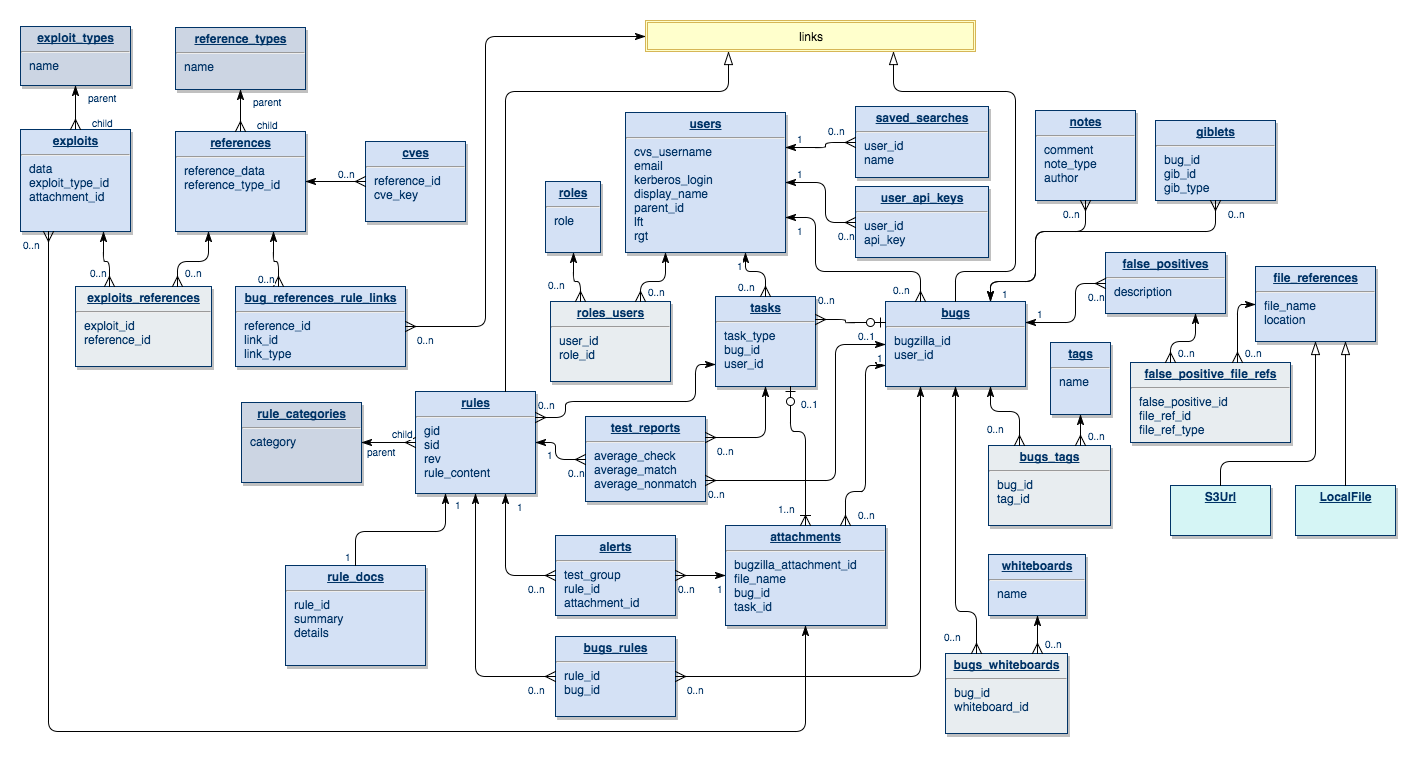
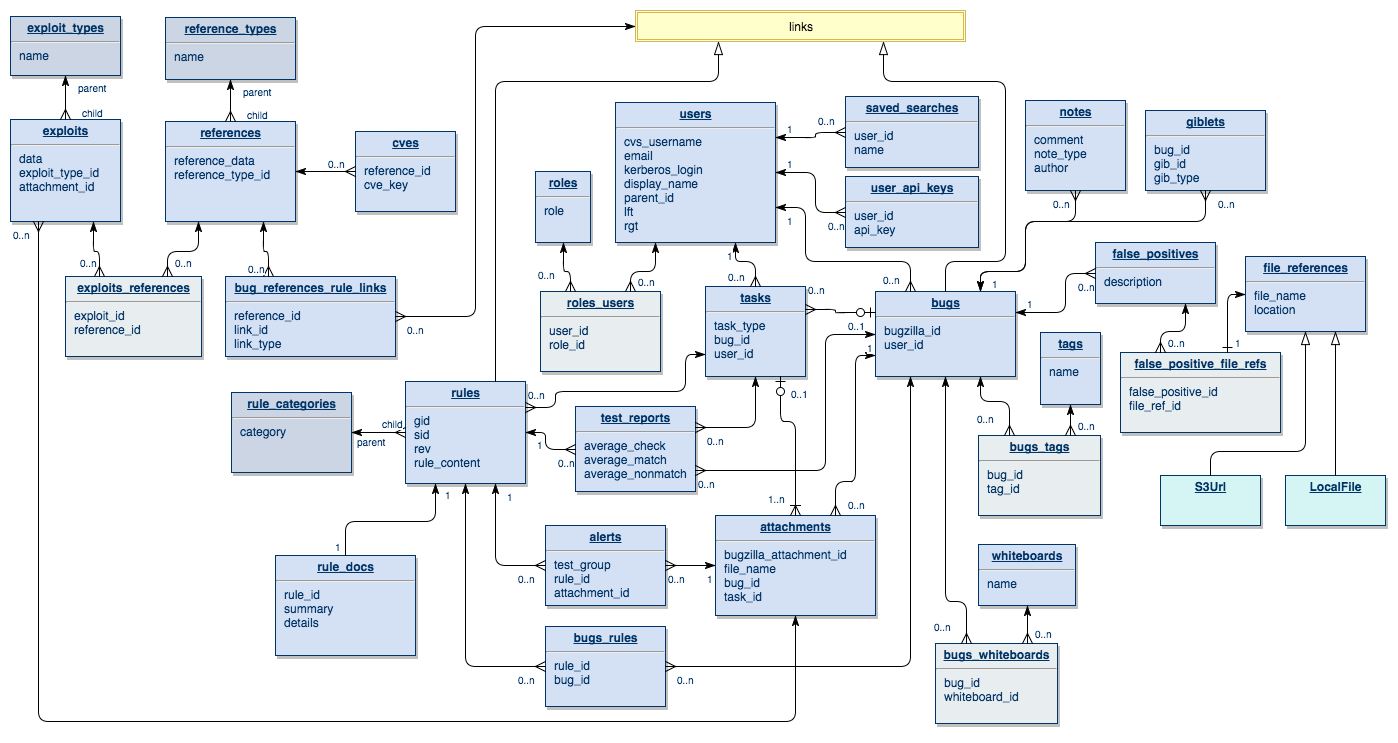
download_s3_urls

diff --git a/app/models/false_positive.rb b/app/models/false_positive.rb
@@ -5,10 +5,30 @@ class FalsePositive < ApplicationRecord
   def sids_array
     sid_strs = sid.gsub(/\s*/, '').split(/[,;]/)
     sid_strs.map do |str|
-      if /([1,3][-:])?(?<sid>\d{1,6})/ =~ str
+      if /([1,3][-:])?(?<sid>\d{3,6})/ =~ str
         sid
       end
     end.compact
+  end
+
+  def download_s3_urls
+    fp_file_refs.each do |fp_file_ref|
+      if fp_file_ref.file_reference.kind_of?(S3Url)
+        # get the current parent
+        s3_url = fp_file_ref.file_reference
+
+        # get a new parent
+        local = s3_url.download
+        unless local.new_record? || local.changed? || !local.valid?
+          # have new parent adopt the child
+          fp_file_ref.update(file_reference: local)
+
+          # now the old parent can go away without orphaning the child.
+          # so, this is a little story
+          s3_url.delete
+        end
+      end
+    end
   end
 
   def component
@@ -53,9 +73,9 @@ PCAP Utility: #{pcap_lib}
   end
 
   # Create a bug in bugzilla, save it with an active record model, and post to the bug create channel
-  # @param [Bugzilla::Bug] bug_factory proxy interface to bugzilla.
-  def create_bug(bug_factory)
-    # @param [Bugzilla::XMLRPC] bugzilla_session proxy interface to bugzilla.
+  # @param [Bugzilla::XMLRPC] bugzilla_session proxy interface to bugzilla.
+  def create_bug(bugzilla_session)
+    bug_factory = Bugzilla::Bug.new(bugzilla_session)
 
     bug_attrs = {
         'product' => 'Research',
@@ -74,23 +94,12 @@ PCAP Utility: #{pcap_lib}
     bug
   end
 
-  # Create a bug in bugzilla, save it with an active record model, and post to the bug create channel
-  # @param [Bugzilla::XMLRPC Token] bugzilla_session proxy interface to bugzilla.
-  def create_bug_action(bugzilla_session)
-    bug_factory = Bugzilla::Bug.new(bugzilla_session)
-
-    bug = create_bug(bug_factory)
-
+  def post_fp_created
     conn = PeakeBridge::FpCreatedEvent.new(addressee: self.source_authority,
                                            source_authority: self.source_authority)
     conn.post(false_positive_id: self.id,
               bug_id: bug&.id,
               source_key: self.source_key)
-    # Rails.logger.debug("PeakeBridge response.body = #{response.body.inspect}")
-
-    bug
-  rescue => except
-    Rails.logger.error(except.message)
   end
 
   def save_attachments_from_params(attachments_attrs:)
@@ -111,5 +120,16 @@ PCAP Utility: #{pcap_lib}
     create(attrs.merge(source_authority: sender)).tap do |false_positive|
       false_positive.save_attachments_from_params(attachments_attrs: attachments_attrs)
     end
+  end
+
+  # Create a bug in bugzilla, save it with an active record model, and post to the bug create channel
+  # @param [Bugzilla::XMLRPC Token] bugzilla_session proxy interface to bugzilla.
+  def create_bug_action(bugzilla_session)
+    download_s3_urls
+    bug = create_bug(bugzilla_session)
+    post_fp_created
+    bug
+  rescue => except
+    Rails.logger.error(except.message)
   end
 end

diff --git a/config/initializers/config_yml.rb b/config/initializers/config_yml.rb
@@ -6,12 +6,6 @@ raise "config.yml missing #{Rails.env} section" unless env_config
 raise "config.yml missing amq section" unless env_config['amq']
 Rails.configuration.amq_host            = env_config['amq']['host']
 
-raise "config.yml missing aws section" unless env_config['aws']
-Rails.configuration.aws_access_key_id                       = env_config['aws']['access_key_id']
-Rails.configuration.aws_secret_access_key                   = env_config['aws']['secret_access_key']
-Rails.configuration.aws_region                              = env_config['aws']['region']
-Rails.configuration.aws_buckets                             = env_config['aws']['buckets'] || {}
-Aws.config.update(credentials: Aws::Credentials.new(Rails.configuration.aws_access_key_id, Rails.configuration.aws_secret_access_key))
 
 
 raise "config.yml missing bugzilla section" unless env_config['bugzilla']

diff --git a/app/models/s3_url.rb b/app/models/s3_url.rb
@@ -24,9 +24,6 @@ class S3Url < FileReference
     local = LocalFile.create(attributes.slice(*%w{file_name file_type_name source}))
     relative_path = "#{self.source}/#{local.id}-#{self.file_name}"
     local.copy_local(get_file, relative_path)
-    unless local.new_record? || local.changed? || !local.valid?
-      self.destroy
-    end
     local
   end
 end

diff --git a/app/models/file_reference.rb b/app/models/file_reference.rb
@@ -1,6 +1,6 @@
 class FileReference < ApplicationRecord
-  has_many :false_positive_file_refs, as: :file_ref
-  has_many :false_positives, through: :false_positive_file_refs
+  has_one :fp_file_ref
+  has_one :false_positive, through: :fp_file_ref
 
   scope :s3_urls, -> { where(type: 'S3Url') }
   scope :local_files, -> { where(type: 'LocalFile') }
